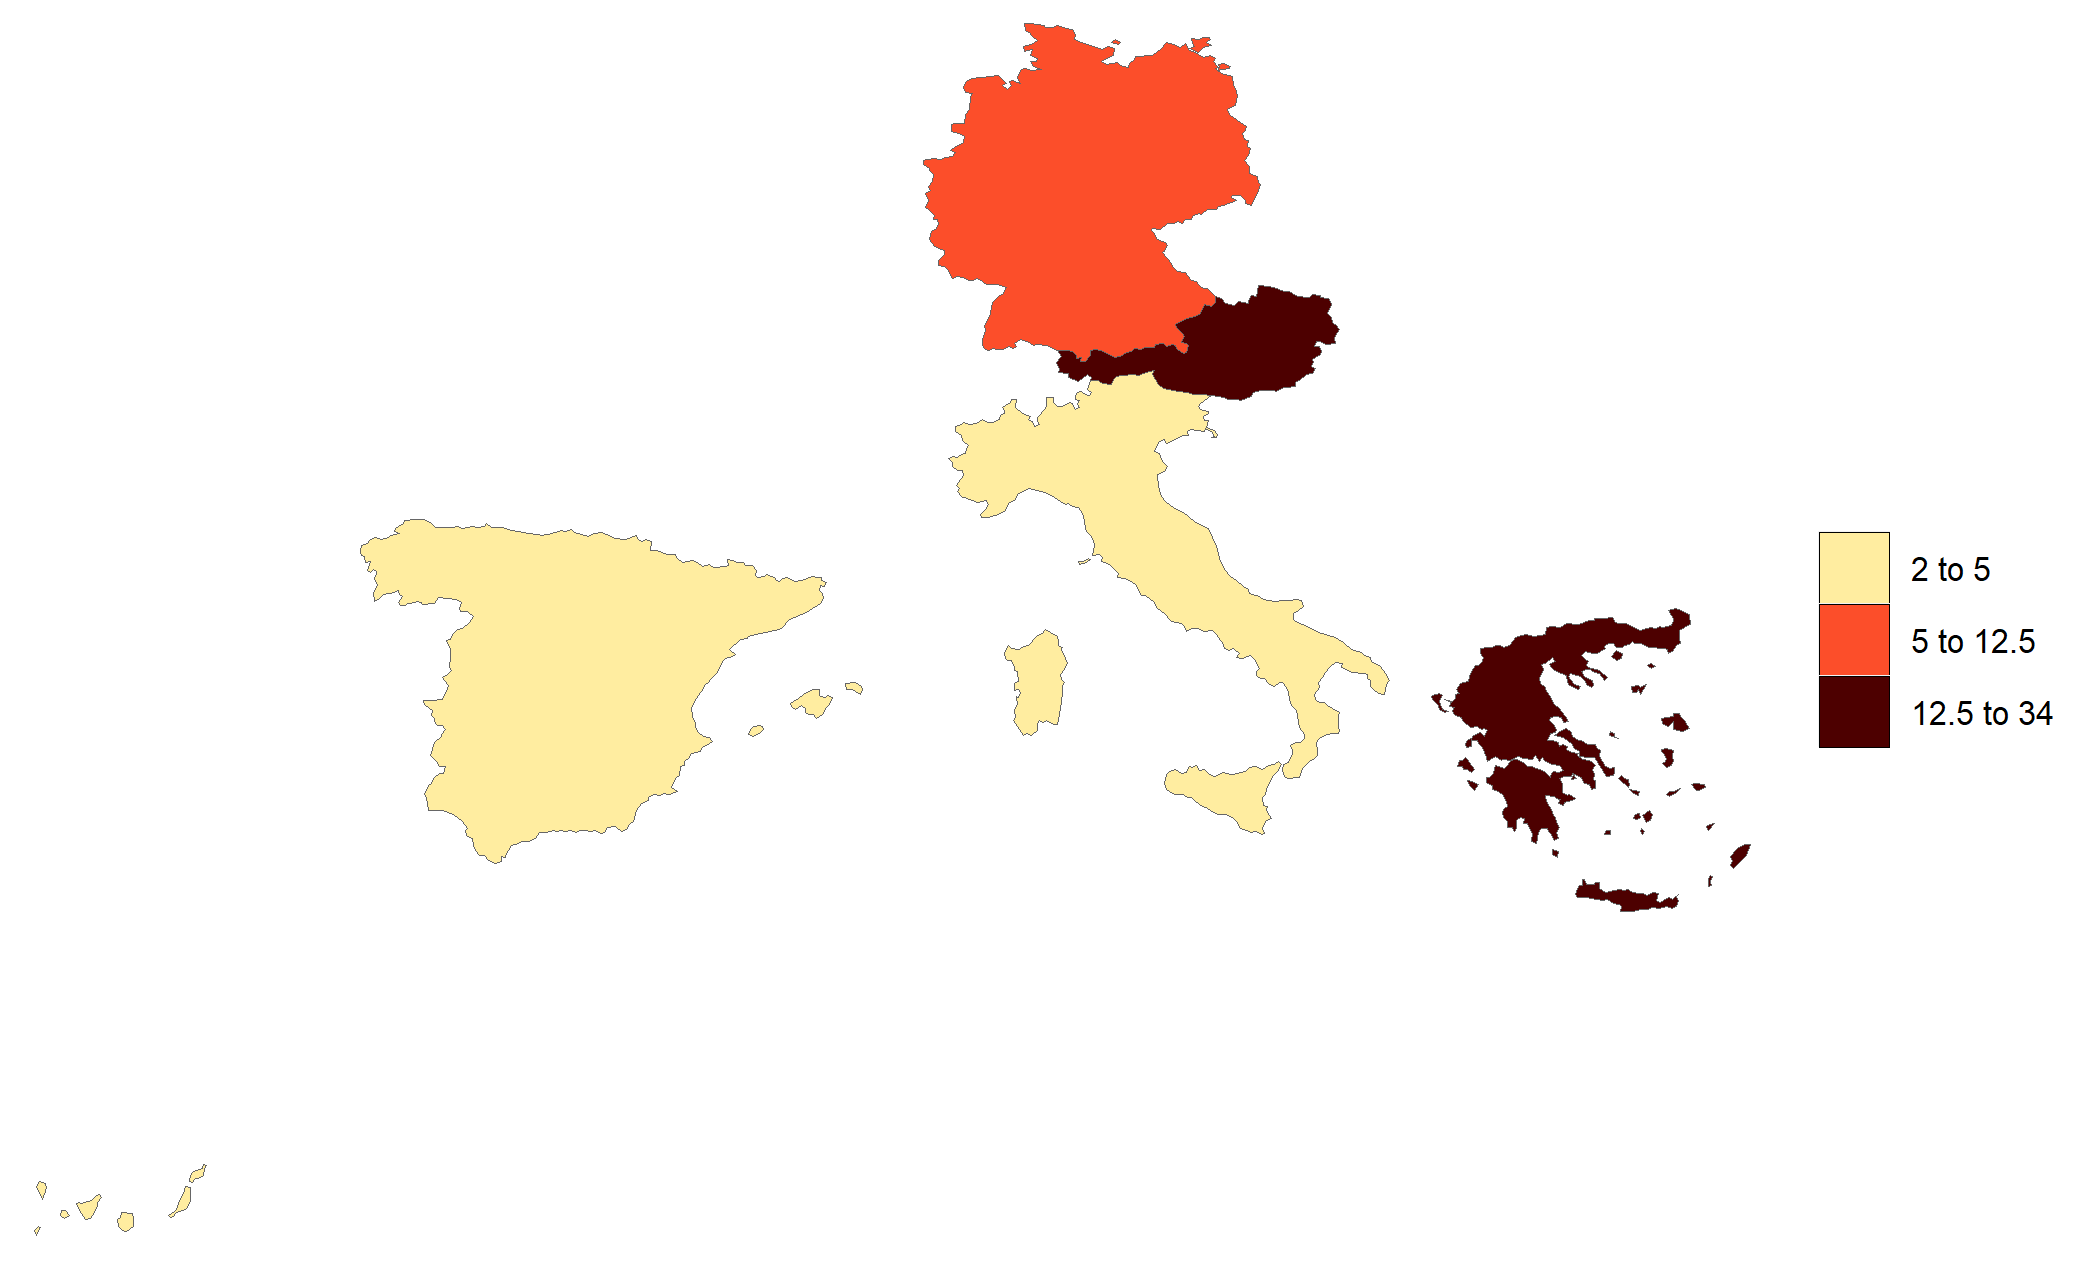
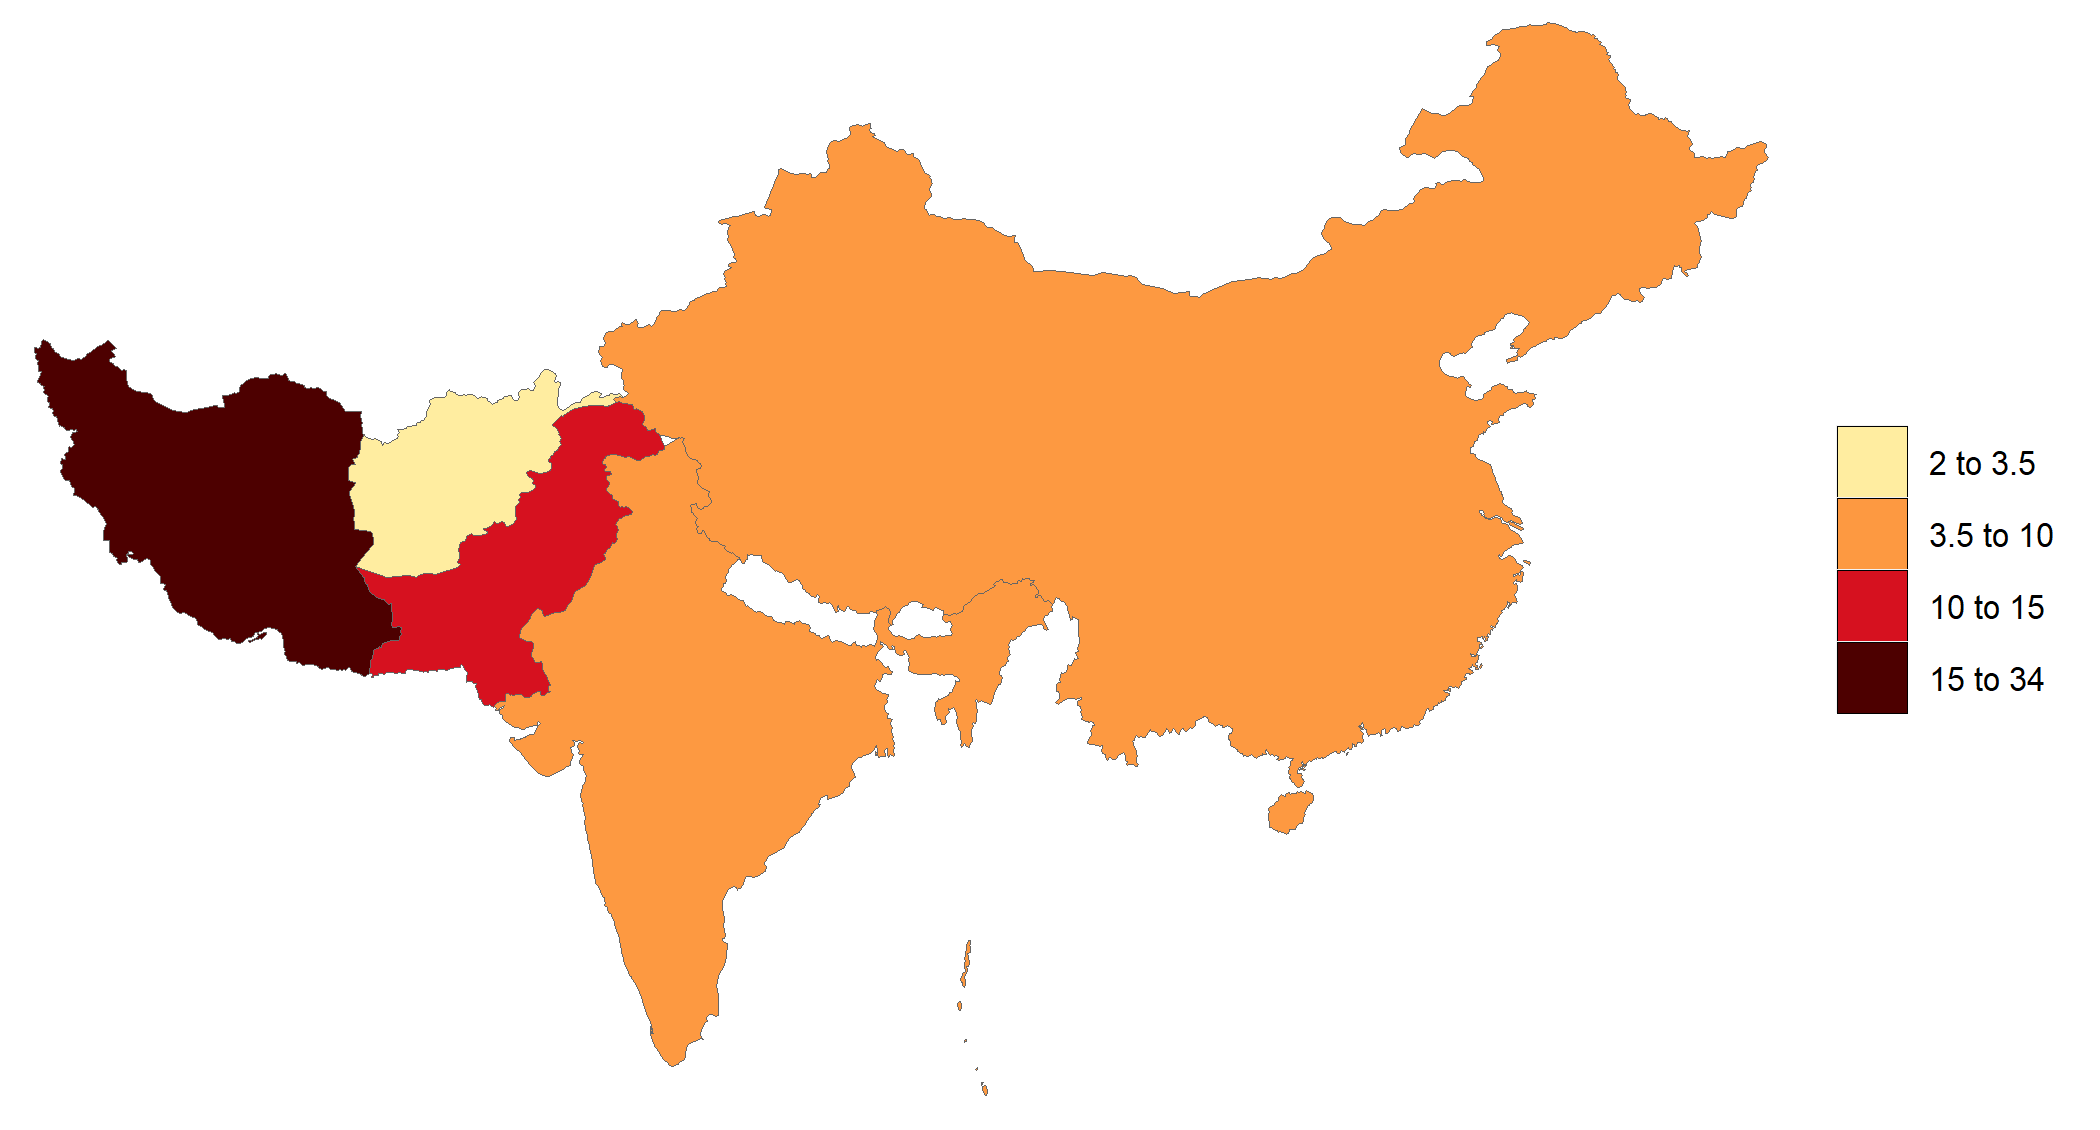
Updating paper

diff --git a/paper/paper.md b/paper/paper.md
@@ -1,5 +1,6 @@
 ---
-title: 'rmap: An R package to easily plot tabular data onto fully customizable built-in and user-defined maps.'
+title: 'rmap: An R package to easily plot tabular data on customi across '
+
 tags:
   - 
 authors:
@@ -25,62 +26,46 @@ bibliography: paper.bib
 ---
 
 # Summary
-`rmap` is an R package that allows uers to easily plot tabular data (csv or R dataframes) on maps without any Geographical Information Systems (GIS) knowledge. All maps produced by `rmap` are `ggplot` objects and thus capitalize on all the flexibility and advancements of the `ggplot2` package [@wickham_ggplot2_2011] and all elements of each map is thus fully customizable. Additionally `rmap` automatically detects and produces comparison maps if the data has multiple scenarios, parameters, classes or time periods as well as animations for time series data. Advanced users can use their own shapefiles if desired. `rmap` comes with a range of prebuilt color palettes but users can also provide any `R` color palette or create their own as needed. Data legends are available in three types of legends which include equal intervals (pretty), kmeans or continuous legend scales to highlight different kinds of data distributions. The input data can be both gridded or polygon data. 
-
-The package is available on github at https://github.com/JGCRI/rmap.
+`rmap` is an R package that allows users to easily plot tabular data (CSV or R data frames) on maps without any Geographic Information Systems (GIS) knowledge. Maps produced by `rmap` are `ggplot` objects and thus capitalize on the flexibility and advancements of the `ggplot2` package [@wickham_ggplot2_2011] and all elements of each map are thus fully customizable. Additionally `rmap` automatically detects and produces comparison maps if the data has multiple scenarios or time periods as well as animations for time series data. Advanced users can load their own shape files if desired. `rmap` comes with a range of pre-built color palettes but users can also provide any `R` color palette or create their own as needed. Data legends are available in four types of legends which include equal intervals (pretty), kmeans, fixed interval or continuous legend scales to highlight different kinds of data distributions. The input spatial data can be both gridded or polygon data.
 
 # Statement of need
-`rmap` is meant to advance the current state of accessibility to spatial visualization tools in R to users with limited to no GIS knowledge. `rmap` is not meant to be a replacement for spatial manipulation software and focuses on the simple plotting of polygon and gridded data for spatio-temporal visualization of tabular data. Several existing R packages (such as tmap [@tennekes_tmap_2018], cartography [@giraud_cartography_2016], rworldmap [@south_rworldmap_2011], GISTools [@brunsdon_package_2015], choroplethr [@lamstein_choroplethr_2020], sp [@pebesma_s_2005] and sf [@pebesma_simple_2018]) have been developed conduct spatial visualization and analytics in R without depending on external software such as ArcGIS [@esri_arcgis_2020], GRASS [@grass_development_team_grass_2020] or QGIS [@qgis_development_team_qgis_2021]. `rmap` enhances the following key capabilities which are limited in these existing packages:
+`rmap` is meant to help users with limited to no GIS knowledge use R for spatial visualization of tabular spatial data. `rmap` is not meant to be a replacement for spatial manipulation software or detailed cartography and focuses on the simple plotting of polygon and gridded data for spatio-temporal visualization of tabular data. Several existing R packages (such as tmap [@tennekes_tmap_2018], cartography [@giraud_cartography_2016], rworldmap [@south_rworldmap_2011], GISTools [@brunsdon_package_2015], choroplethr [@lamstein_choroplethr_2020], sp [@pebesma_s_2005] and sf [@pebesma_simple_2018]) have been developed to conduct spatial visualization and analytics in R without depending on external software such as ArcGIS [@esri_arcgis_2020], GRASS [@grass_development_team_grass_2020] or QGIS [@qgis_development_team_qgis_2021]. `rmap` enhances the following key capabilities which are limited in these existing packages:
 
-1. **pre-built maps**: Existing packages come with only a few examples of built-in maps as package data. `rmap` comes with a growing collection of  country, state, mutli-level hydroshed river basin as well as other customized maps that are added into the package data based on user needs and requests. A major reason that existing packages have limited map data is because of package size limitations on popular R package hosting services such as the Comprehensive R Archive Network ([CRAN](https://cran.r-project.org/)). However, having direct acces to a standard set of built-in maps allows for quick deployment and automated search and find of relevant maps without the need for users to have to choose or upload or download the necessary shapefiles. 
-2. **direct data table to map**: Existing packages are able to plot a map from a simple data.frame or csv table. `rmap` has an automatic `map_find` function that searches for the appropriate built-in map based on the regions provided in a `subRegion` column. This truly frees users from the need for any other data needs and they can simply `map()` their own data tables directly as long as the table has a minimum of a `subRegion` and `value` column. 
-3. **difference maps**: Existing packages do not produce difference maps to compare across scenarios or time periods. `rmap` provides this functionality by automatically recognizing multiple scenarios and time periods to produce difference maps across these dimensions. Often what is most important in spatial data is to see the difference between two scenarios or time periods and `rmap` makes this a seasmless process.
-4. **post-process customization**: Existing packages do not produce output objects that can be saved and then customized. Customization of the maps is limited to particular package built-in functionality and arguments. `rmap` produces `ggplot` objects in which every element (axis, grids, titles, colors, linewidths, facets) can all be customized after the map has been produced. This allows users to capitilize on existing knowledge of the widely used `ggplot2` package and its arguments.
-
-
-# Installation Guide
-
-1. Download and install:
-    - R (https://www.r-project.org/)
-    - R studio (https://www.rstudio.com/)  
-    
-    
-2. Open R studio:
-
-```r
-install.packages("devtools")
-devtools::install_github("JGCRI/rmap")
-```
-
-Additional steps for UBUNTU from a terminal
-```
-sudo add-apt-repository ppa:ubuntugis/ppa
-sudo apt-get update
-sudo apt-get install libudunits2-dev libgdal-dev libgeos-dev libproj-dev libmagick++-dev
-```
-
-Additional steps for MACOSX from a terminal
-```
-brew install pkg-config
-brew install gdal
-brew install imagemagick@6
-```
+1. **Pre-built maps**: Existing packages come with only a few examples of built-in maps as package data. `rmap` comes with a growing collection of  country, state, mutli-level hydroshed river basin as well as other customized maps that are added into the package data based on user needs and requests. A major reason that existing packages have limited map data is because of package size limitations on popular R package hosting services such as the Comprehensive R Archive Network ([CRAN](https://cran.r-project.org/)). However, having direct access to a standard set of built-in maps allows for quick deployment and automated search and find of relevant maps without the need for users to have to choose or upload or download the necessary shape files. 
+2. **Direct data table to map**: Existing packages are not able to plot a map directly given only a simple data frame or CSV table. `rmap` has an automatic `map_find` function that searches for the appropriate built-in map based on the regions provided in a `subRegion` column and values in a `value` column. The sub-regions in the `subRegion` column must be one of the sub-regions in the existing set of `rmap` built-in maps. This truly frees users from the need for any other spatial data needs and they can simply `map()` their own data tables directly. 
+3. **Difference maps**: Existing packages do not produce difference maps to compare across scenarios or time periods. `rmap` provides this functionality by automatically recognizing multiple scenarios and time periods to produce difference maps across these dimensions. Often what is most important in spatial data is to see the difference between two scenarios or time periods and `rmap` makes this a seamless process.
+4. **Post-process customization**: Existing packages do not produce output objects that can be saved and then customized. Customization of the maps is limited to particular package built-in functionality and arguments. `rmap` produces `ggplot` objects in which every element (axis, grids, titles, colors, line widths, facets) can all be customized after the map has been produced. This allows users to capitalize on existing knowledge of the widely used `ggplot2` package and its arguments.
 
 # Functionality
 
 A detailed [User Guide](https://jgcri.github.io/rmap/articles/vignette_map.html) walks users step-by-step through all the available functionality of `rmap`. A simpler [Cheatsheet](https://jgcri.github.io/rmap/cheatsheet.pdf) is also provided to help users remember some of the key functionality in a single sheet. The following few simple examples demonstrate the simplicity of using `rmap`. Available maps in `rmap` can be found at: https://jgcri.github.io/rmap/articles/vignette_map.html#built-in-maps.
 
-## Plot Country Data
+## Basic map
 
 ```
 library(rmap)
 
-data = data.frame(subRegion = c("Spain","Germany","Austria","Greece","Italy"),
+data = data.frame(subRegion = c("China","India","Pakistan","Iran","Afghanistan"),
                   value = c(5,10,15,34,2))
 map(data)
 ```
 
-![Plot a map on Countries](mapCountries.png)
+![Basic map plotted on data provided. `rmap` automatically chooses a country map based on the names in the 'subRegion' column in the data table.](mapCountries.png)
+
+## Map with labels and underlayer
+
+```
+library(rmap)
+
+data = data.frame(subRegion = c("CA","FL","ID","MO","TX","WY"),
+                  value = c(5,10,15,34,2,7))
+map(data, 
+	underLayer = mapUS52Compact, 
+	crop_to_underLayer = T, 
+	labels = T)
+```
+
+![Map with chosen underLayer and labels for data provided. `rmap` automatically chooses the U.S. State map based on the names in the 'subRegion' column in the data table.](mapUScompact.png)
 
 ## Compare Scenarios
 
@@ -96,59 +81,16 @@ data = data.frame(subRegion = c("Spain","Germany","Austria","Greece","Italy",
 				  scenario = c("scen1","scen1","scen1","scen1","scen1",
 							   "scen2","scen2","scen2","scen2","scen2",
 							   "scen3","scen3","scen3","scen3","scen3"))
-map(data, scenRef = "scen1")
+map(data,
+	underLayer = "mapCountries",
+	scenRef = "scen1",
+	background = T)
 ```
 
-![Compare scenarios](mapScenarios.png)
+![Maps showing absolute values for all three scenarios in data table.](mapScenarios.png)
 
-![Difference Plots](mapScenariosDiff.png)
+![Maps showing absolute difference between chosen reference scenario ("scen1") and remaining scenarios ("scen2" and "scen3") in data table.](mapScenariosDiff.png)
 
-## Plot a map on US States
-
-```
-library(rmap)
-
-data = data.frame(subRegion = c("CA","FL","ID","MO","TX","WY"),
-                  value = c(5,10,15,34,2,7))
-map(data)
-```
-
-![Plot a map on US States](mapUS.png)
-
-## Plot a map on US States with labels and an under layer
-
-```
-library(rmap)
-
-data = data.frame(subRegion = c("CA","FL","ID","MO","TX","WY"),
-                  value = c(5,10,15,34,2,7))
-map(data, underLayer = mapUS52Compact, crop_to_underLayer = T, labels = T)
-```
-
-![Plot a map on US States and add an underLayer](mapUScompact.png)
-
-## Fully customize the output map using ggplot2 arguments
-
-```
-library(rmap); library(ggplot2)
-
-data = data.frame(subRegion = c("CA","FL","ID","MO","TX","WY"),
-                  value = c(5,10,15,34,2,7))
-my_map <- map(data, underLayer = mapUS52Compact, crop_to_underLayer = T, labels = T)
-
-my_map_custom <- my_map[[1]] +
-				 theme_dark() +
-				 ggtitle("Themes: x label and legend position") +
-				 xlab("x label") +
-				 theme(legend.position = "bottom",
-					   legend.text = element_text(size=12),
-					   axis.title.x = element_text(size=12, color="red"))
-
-ggsave("my_map_custom.png")
-
-```
-
-![Fully customize the output map using ggplot2 arguments](mapUSCompactCustom.png)
 
 # Acknowledgements
 This research was supported by the US Department of Energy, Office of Science, as part of research in MultiSector Dynamics, Earth and Environmental System Modeling Program. The Pacific Northwest National Laboratory is operated for DOE by Battelle Memorial Institute under contract DE-AC05-76RL01830. The views and opinions expressed in this paper are those of the authors alone.
